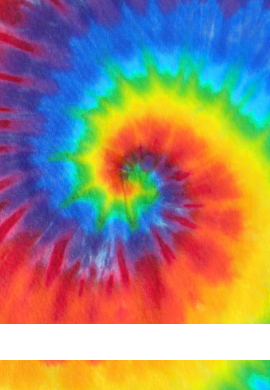
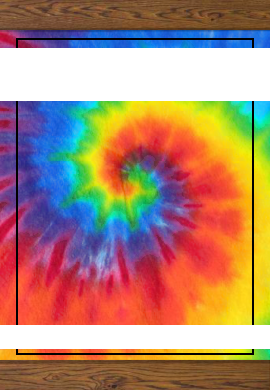
header

diff --git a/src/components/Labels.css b/src/components/Labels.css
@@ -1,3 +1,14 @@
+.label-body h3, .label-body h4{
+    /* display: block; */
+    /* font-size: 1.5em; */
+    margin-block-start: 0em;
+    margin-block-end: 0em;
+    margin-inline-start: 0px;
+    margin-inline-end: 0px;
+    /* font-weight: bold; */
+}
+
+
 .label1 {
     background-image: url('../img/labels/wood-label.png');
 }
@@ -6,50 +17,217 @@
 }
 .label3 {
     background-image: url('../img/labels/tiedye-example.png');
-    color: #fff;
 }
 .label4 {
     background-image: url('../img/labels/white-label.png');
 }
 .label5 {
     background-image: url('../img/labels/wood-frame-label.png');
-    /* color: rgb(123, 88, 65); */
 }
-.label1 > input::placeholder {
+.labelX {
+    background-image: url('../img/labels/tiedye-blank.png');
+}
+
+
+.font-black, .font-black::placeholder {
+    color: black;
+}
+.font-white, .font-white::placeholder  {
+    color: white;
+}
+.font-red, .font-red::placeholder  {
+    color: red;
+}
+.font-green, .font-green::placeholder  {
+    color: green;
+}
+
+input {
+    background-color: transparent;
+    border: 0;
+    margin: 0;
+    padding: 0;
+    height: auto;
+
+}
+.label-header, .label-header input{
+    font-family: 'Smokum', 'Times New Roman', Times, serif;
+    font-size: 52px;
+    text-align: center;
+    width: 100%;
+
+}
+.label-header {
+    height: 40px;
+    position: relative;
+    padding: 5px 0;
+    margin: 46px 0 0 0;
+    overflow: hidden;
+    z-index: 1;
+    background-color: white;
+    display: inline-block;
+} 
+.label-header input{
+    height: 40px;
+    display: block;
+}
+.label-name {
+
+}
+.label-oz {
+    font-size: 9px;
+    margin-top: 3px;
+}
+
+.label-body {
+    margin: -3px 0 0 0;
+    position: relative;
+    background-position: center;
+    background-size: cover;
+    background-repeat: no-repeat;
+    width: 250px;
+    height: 375px;
+}
+.label-body img {
+    display: block;
+    height: 200px;
+    width: 200px;
+    margin: 10px auto 0px auto;
+}
+
+
+.text-outline {
+    text-shadow: 1px 1px 0 #000, -1px -1px 0 #000, -1px 1px 0 #000, 1px -1px 0 #000;
+    font-stretch: expanded;
+}
+
+
+
+.form-container > form {
+    margin-top: 5px;
+}
+
+/*********************************  FORM */
+.pick-label > div {
+
+}
+.pick-label h3 {
+    font-size: 34px;
+    margin-top: 26px;
+}
+.pick-label h4 {
+    margin-top: 0px;
+    padding: 5px 0 ;
+    width: 100%;
+}
+.pick-label img {
+    display: block;
+    height: 100px;
+    width: 100px;
+    margin: 0 auto 0px auto;
+}
+.card-label {
+    transform: scale(.7);
+    margin: 0 -15%;
+}
+
+/********************************* labels */
+.labels {
+    height: 80px;
+}
+.labels > div > div {
+margin: 0 4px;
+}
+
+.brand-header {
+    font-family: 'Smokum', 'Times New Roman', Times, serif;
+    font-size: 28px;
+    margin-top: 20px;
+    text-align: center;
+    width: 125px;
+    border: 0;
+    background-color: transparent;
+}
+
+/****************************************************** MINI LABELS */
+.pick-mini-labels {
+    margin-bottom: -30px;
+}
+
+.pick-mini-labels > div > div {
+    display: inline-block;
+    transform: scale(.3);
+    margin: -80px -50px;
+}
+
+
+
+@media screen and (max-width: 767px) {
+
+}
+
+
+
+
+
+
+
+
+
+
+
+
+
+
+
+
+
+
+
+
+.label1 {
+    background-image: url('../img/labels/wood-label.png');
+}
+.label2 {
+    background-image: url('../img/labels/green-red-white-label.png');
+}
+.label3 {
+    background-image: url('../img/labels/tiedye-example.png');
+    /* color: #fff; */
+}
+.label4 {
+    background-image: url('../img/labels/white-label.png');
+}
+.label5 {
+    background-image: url('../img/labels/wood-frame-label.png');
+}
+/* .label1 > input::placeholder {
     color: #000;
 }
 .label2 > input::placeholder {
     color: #000;
-}
+} */
 
 .label3 .brand-header::placeholder, .label3 .brand-header {
     color: #fff;
-    margin: 10px auto 5px auto;
+    margin: 20px auto 0px auto;
 }
 
 .label3 .name-sauce, .label3 .name-sauce::placeholder {
     color: #000;
-    margin-top: 5px;
+    margin: 3px auto 1px auto;
 }
 
-.label4 > input::placeholder {
+/* .label4 > input::placeholder {
     color: #000;
 }
 .label5 > input::placeholder {
-    /* color: rgb(123, 88, 65); */
     color: #000;
-}
-/* .label5 .name-sauce::placeholder {
-    color: #000;
-} */
-/* .label5 .brand-header {
-    color: rgb(123, 88, 65);
 } */
 .label3 .brand-header {
-    /* color: #000; */
     text-shadow: 1px 1px 0 #000, -1px -1px 0 #000, -1px 1px 0 #000, 1px -1px 0 #000;
 }
-.label3 h3,  {
+.label3 h3  {
     text-shadow: 1px 1px 0 #000, -1px -1px 0 #000, -1px 1px 0 #000, 1px -1px 0 #000;
     font-stretch: expanded;
 }
@@ -96,12 +274,7 @@ color: rgb(123, 88, 65);
     padding: 5px 0 ;
     width: 100%;
 }
-.pick-label img {
-    display: block;
-    height: 100px;
-    width: 100px;
-    margin: 0 auto 5px auto;
-}
+v
 .card-label {
     transform: scale(.7);
     margin: 0 -15%;

diff --git a/src/components/Show.js b/src/components/Show.js
@@ -108,7 +108,20 @@ export default class Show extends Component {
                             />
                         </div>
                         <div className="show-right">
-                            <Recipe recipe={recipe} />
+                                                    {/* <TestLabel /> */}
+                            
+                    <div className="">
+                    {/* <div className={`${recipe.label} label-bg label-body`}> */}
+                        <div className="labelX label-bg label-body">
+                            <div className="label-header">
+                                <input name="header" placeholder={recipe.header} type="text"/>
+                            </div>
+                            <img src={recipe.img ? recipe.img.url : recipe.icon} alt={recipe.icon}/>          
+                            <input className="label-name" name="style" placeholder={recipe.style} type="text"/>
+                            <div className="label-oz">5 FL.OZ - 147ml</div>
+                        </div>
+                    </div>
+                            {/* <Recipe recipe={recipe} /> */}
                         </div>
                         {/* <div className="show-recipe show-right">
                             { recipe.chili[1]

diff --git a/src/components/TEST-LABEL.js b/src/components/TEST-LABEL.js
@@ -1,0 +1,15 @@
+import React from 'react';
+
+const TestLabel = ({label, icon, style, header, handleChange, img}) => {
+    return (
+        <div className="pick-label">
+            <div className={label}>
+                <input className="brand-header" name="header" placeholder={header} type="text" onChange={handleChange}/>
+                <img src={img ? img.url : icon} alt={icon}/>          
+                <input className="name-sauce" name="style" placeholder={style} type="text" onChange={handleChange}/>
+                <div className="ounces">5 FL.OZ - 147ml</div>
+            </div>
+        </div>
+    );
+};
+export default TestLabel;

diff --git a/src/components/Home.js b/src/components/Home.js
@@ -88,6 +88,10 @@ export default class Home extends Component {
                         }
                         {   (dashOn === "userCreations") &&  
                             <>        
+
+
+
+
                                 <button onClick={() => {this.showDelete()}} className={remove ? "dash-on" : ""}>Delete Recipes</button>
                                 <Recipes 
                                     uid={uid}
